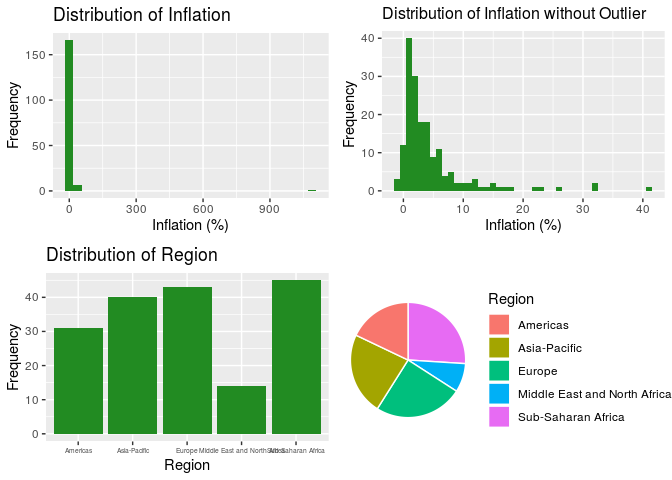
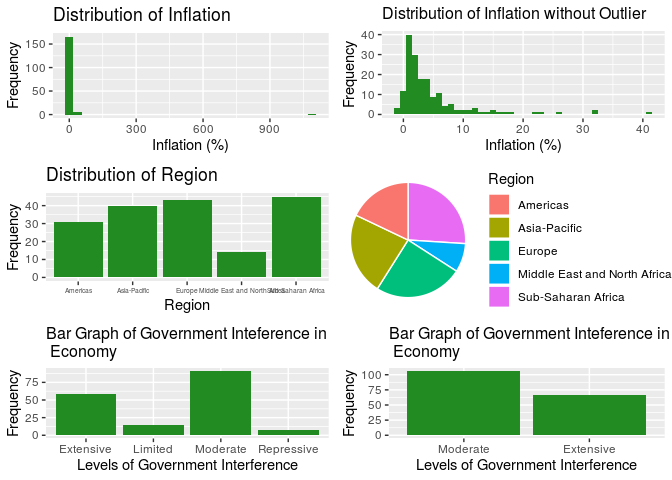
Finished editing EDA

diff --git a/04-final-writeup/final-writeup.md b/04-final-writeup/final-writeup.md
@@ -52,27 +52,18 @@ The response variable is GDP.
 
 ![](final-writeup_files/figure-gfm/gdp-vis-1.png)<!-- -->
 
-    ## Skim summary statistics
-    ##  n obs: 173 
-    ##  n variables: 1 
-    ## 
-    ## ── Variable type:numeric ────────────────────────────────────────────────────────────────────────────────────────────────────────────────────
-    ##  variable missing complete   n   mean      sd  p0  p25  p50   p75    p100
-    ##       GDP       0      173 173 729.71 2486.04 0.6 28.3 88.9 439.6 23159.1
-    ##      hist
-    ##  ▇▁▁▁▁▁▁▁
-
 From our EDA, we decided to log-transform the response variable since
-the histogram of GDP (without outlier) shows a unimodal and right-skewed
-distribution. The logGDP distribution on the other hand is unimodal and
-symmetric. The mean logGDP is 4.61 and the standard deviation of its
-distribution is 2.08. LogGDP’s summary statistics are printed below.
+the histogram of GDP (even without outlier) shows a unimodal and
+right-skewed distribution. The logGDP distribution on the other hand is
+unimodal and symmetric. The mean logGDP is 4.61 and the standard
+deviation of its distribution is 2.08. LogGDP’s summary sstatistics are
+printed below.
 
     ## Skim summary statistics
     ##  n obs: 173 
     ##  n variables: 1 
     ## 
-    ## ── Variable type:numeric ────────────────────────────────────────────────────────────────────────────────────────────────────────────────────
+    ## ── Variable type:numeric ──────────────────────────────────────────
     ##  variable missing complete   n mean   sd    p0  p25  p50  p75  p100
     ##    logGDP       0      173 173 4.61 2.08 -0.51 3.34 4.49 6.09 10.05
     ##      hist
@@ -83,19 +74,19 @@ distribution is 2.08. LogGDP’s summary statistics are printed below.
 The quantitative predictor variables are TariffRate, IncomeTaxRate,
 CorporateTaxRate, TaxBurden, GovSpending, Population, GDPGrowth,
 Unemployment, and PublicDebt. Out of these, we will discuss two
-predictor variables, Population and Inflation. (Discussion of the rest
-of the variables will be in Additional Work). The distribution of each
-of the quantitative predictor variables is shown
-below.
+predictor variables that need to be modified prior to building the
+model: Population and Inflation. (Discussion of the rest of the
+variables will be in Additional Work). The distribution of each of the
+quantitative predictor variables is shown below.
 
-![](final-writeup_files/figure-gfm/EDA1-1.png)<!-- -->![](final-writeup_files/figure-gfm/EDA1-2.png)<!-- -->
+![](final-writeup_files/figure-gfm/EDA1-1.png)<!-- -->
 
-From this histogram of population without outliers, the distribution of
-population is unimodal and right-skewed. The median is 9.15 and the IQR
-is 26.85. Based on the subsequent pairs plot (in multivariate EDA),
-population has a logarithmic relationship with logGDP and thus we will
-apply a logarithmic transform to population below. The summary
-statistics of this transformed variable are also
+From the histogram of population without outliers above, the
+distribution of population is unimodal and right-skewed. The median is
+9.15 and the IQR is 26.85. Based on the subsequent pairs plot (in
+multivariate EDA), population has a logarithmic relationship with logGDP
+and thus we will apply a logarithmic transform to population below. The
+summary statistics of this transformed variable are also
 printed.
 
 ![](final-writeup_files/figure-gfm/Population%20without%20Outlier-1.png)<!-- -->
@@ -104,15 +95,14 @@ printed.
     ##  n obs: 173 
     ##  n variables: 1 
     ## 
-    ## ── Variable type:numeric ────────────────────────────────────────────────────────────────────────────────────────────────────────────────────
+    ## ── Variable type:numeric ──────────────────────────────────────────
     ##  variable missing complete   n mean  sd   p0  p25  p50  p75 p100     hist
     ##    logpop       0      173 173 2.16 1.8 -2.3 1.06 2.25 3.45 7.24 ▁▃▃▇▆▃▁▁
 
 The categorical predictor variables are Region, GovInterference, and
-Inflation. The distribution of these variables is printed
-below.
+Inflation. The distribution of these variables is printed below.
 
-![](final-writeup_files/figure-gfm/EDA2-1.png)<!-- -->![](final-writeup_files/figure-gfm/EDA2-2.png)<!-- -->
+![](final-writeup_files/figure-gfm/EDA2-1.png)<!-- -->
 
 `Inflation` represents the change in prices of goods and services in a
 year in the country. The distribution of inflation rate is generally
@@ -125,7 +115,7 @@ These summary statistics are printed below.
     ##  n obs: 173 
     ##  n variables: 1 
     ## 
-    ## ── Variable type:numeric ────────────────────────────────────────────────────────────────────────────────────────────────────────────────────
+    ## ── Variable type:numeric ──────────────────────────────────────────
     ##   variable missing complete   n  mean    sd   p0 p25 p50 p75   p100
     ##  Inflation       0      173 173 10.87 82.56 -0.9 1.3 2.8 5.5 1087.5
     ##      hist
@@ -150,7 +140,7 @@ interaction terms easier.
 
 ### Multivariate Exploration
 
-![](final-writeup_files/figure-gfm/Scatterplot%20logGDP-1.png)<!-- -->![](final-writeup_files/figure-gfm/Scatterplot%20logGDP-2.png)<!-- -->
+![](final-writeup_files/figure-gfm/Scatterplot%20logGDP-1.png)<!-- -->![](final-writeup_files/figure-gfm/Scatterplot%20logGDP-2.png)<!-- -->![](final-writeup_files/figure-gfm/Scatterplot%20logGDP-3.png)<!-- -->
 
 From the scatterplots, we note that logGDP against population
 scatterplot shows a curved distribution which resembles a logarithimic
@@ -167,7 +157,7 @@ A similar analysis is conducted between the response and the categorical
 variables using side-by-side
 boxplots.
 
-![](final-writeup_files/figure-gfm/Boxplots%20for%20response%20vs%20categorical-1.png)<!-- -->![](final-writeup_files/figure-gfm/Boxplots%20for%20response%20vs%20categorical-2.png)<!-- -->![](final-writeup_files/figure-gfm/Boxplots%20for%20response%20vs%20categorical-3.png)<!-- -->
+![](final-writeup_files/figure-gfm/Boxplots%20for%20response%20vs%20categorical-1.png)<!-- -->
 
 In each case, it seems apparent that across the different levels of each
 of our three categorical variables, the mean logGDP values tend to be
@@ -1495,7 +1485,7 @@ GDP, starting with
     ##  n obs: 173 
     ##  n variables: 1 
     ## 
-    ## ── Variable type:numeric ────────────────────────────────────────────────────────────────────────────────────────────────────────────────────
+    ## ── Variable type:numeric ──────────────────────────────────────────
     ##   variable missing complete   n  mean    sd  p0 p25  p50  p75 p100
     ##  TaxBurden       0      173 173 22.19 10.25 1.6  14 20.7 30.2   47
     ##      hist
@@ -1512,7 +1502,7 @@ deviation of the distribution is 10.17%.
     ##  n obs: 173 
     ##  n variables: 1 
     ## 
-    ## ── Variable type:numeric ────────────────────────────────────────────────────────────────────────────────────────────────────────────────────
+    ## ── Variable type:numeric ──────────────────────────────────────────
     ##     variable missing complete   n mean    sd   p0  p25  p50  p75 p100
     ##  GovSpending       0      173 173 32.2 10.67 10.6 23.6 31.6 39.8 64.2
     ##      hist
@@ -1529,7 +1519,7 @@ of GDP and the distribution has a standard deviation of 15.52%.
     ##  n obs: 173 
     ##  n variables: 1 
     ## 
-    ## ── Variable type:numeric ────────────────────────────────────────────────────────────────────────────────────────────────────────────────────
+    ## ── Variable type:numeric ──────────────────────────────────────────
     ##    variable missing complete   n  mean     sd  p0 p25 p50  p75   p100
     ##  Population       0      173 173 42.16 149.89 0.1 2.9 9.5 31.4 1390.1
     ##      hist
@@ -1544,7 +1534,7 @@ graph of population without these two points below.
     ##  n obs: 173 
     ##  n variables: 1 
     ## 
-    ## ── Variable type:numeric ────────────────────────────────────────────────────────────────────────────────────────────────────────────────────
+    ## ── Variable type:numeric ──────────────────────────────────────────
     ##    variable missing complete   n  mean     sd  p0 p25 p50  p75   p100
     ##  Population       0      173 173 42.16 149.89 0.1 2.9 9.5 31.4 1390.1
     ##      hist
@@ -1563,7 +1553,7 @@ apply a logarithmic transform to population below.
     ##  n obs: 173 
     ##  n variables: 1 
     ## 
-    ## ── Variable type:numeric ────────────────────────────────────────────────────────────────────────────────────────────────────────────────────
+    ## ── Variable type:numeric ──────────────────────────────────────────
     ##      variable missing complete   n mean   sd  p0 p25 p50 p75 p100     hist
     ##  Unemployment       0      173 173 7.27 5.67 0.1 3.7 5.5 9.3 27.3 ▆▇▅▂▁▁▁▁
 
@@ -1578,7 +1568,7 @@ IQR is 5.6.
     ##  n obs: 173 
     ##  n variables: 1 
     ## 
-    ## ── Variable type:numeric ────────────────────────────────────────────────────────────────────────────────────────────────────────────────────
+    ## ── Variable type:numeric ──────────────────────────────────────────
     ##    variable missing complete   n mean  sd p0 p25 p50 p75 p100     hist
     ##  TariffRate       0      173 173 5.61 4.4  0   2 4.2 8.7 18.6 ▇▅▃▃▃▁▁▁
 
@@ -1595,7 +1585,7 @@ examine it further in a pairs plot later in the analysis.
     ##  n obs: 173 
     ##  n variables: 1 
     ## 
-    ## ── Variable type:numeric ────────────────────────────────────────────────────────────────────────────────────────────────────────────────────
+    ## ── Variable type:numeric ──────────────────────────────────────────
     ##   variable missing complete   n  mean    sd   p0 p25 p50 p75   p100
     ##  Inflation       0      173 173 10.87 82.56 -0.9 1.3 2.8 5.5 1087.5
     ##      hist
@@ -1639,7 +1629,7 @@ variable.
     ##  n obs: 173 
     ##  n variables: 1 
     ## 
-    ## ── Variable type:numeric ────────────────────────────────────────────────────────────────────────────────────────────────────────────────────
+    ## ── Variable type:numeric ──────────────────────────────────────────
     ##       variable missing complete   n  mean    sd p0 p25 p50 p75 p100
     ##  IncomeTaxRate       0      173 173 28.78 13.32  0  20  30  35   60
     ##      hist
@@ -1659,7 +1649,7 @@ the distribution is 13.4%.
     ##  n obs: 173 
     ##  n variables: 1 
     ## 
-    ## ── Variable type:numeric ────────────────────────────────────────────────────────────────────────────────────────────────────────────────────
+    ## ── Variable type:numeric ──────────────────────────────────────────
     ##          variable missing complete   n  mean   sd p0 p25 p50 p75 p100
     ##  CorporateTaxRate       0      173 173 23.95 8.89  0  20  25  30   50
     ##      hist
@@ -1676,7 +1666,7 @@ corporate tax rate is 23.89% and the standard deviation is 8.88%.
     ##  n obs: 173 
     ##  n variables: 1 
     ## 
-    ## ── Variable type:numeric ────────────────────────────────────────────────────────────────────────────────────────────────────────────────────
+    ## ── Variable type:numeric ──────────────────────────────────────────
     ##    variable missing complete   n  mean   sd p0  p25  p50  p75  p100
     ##  PublicDebt       0      173 173 56.46 33.8  0 35.2 49.4 69.9 236.4
     ##      hist
